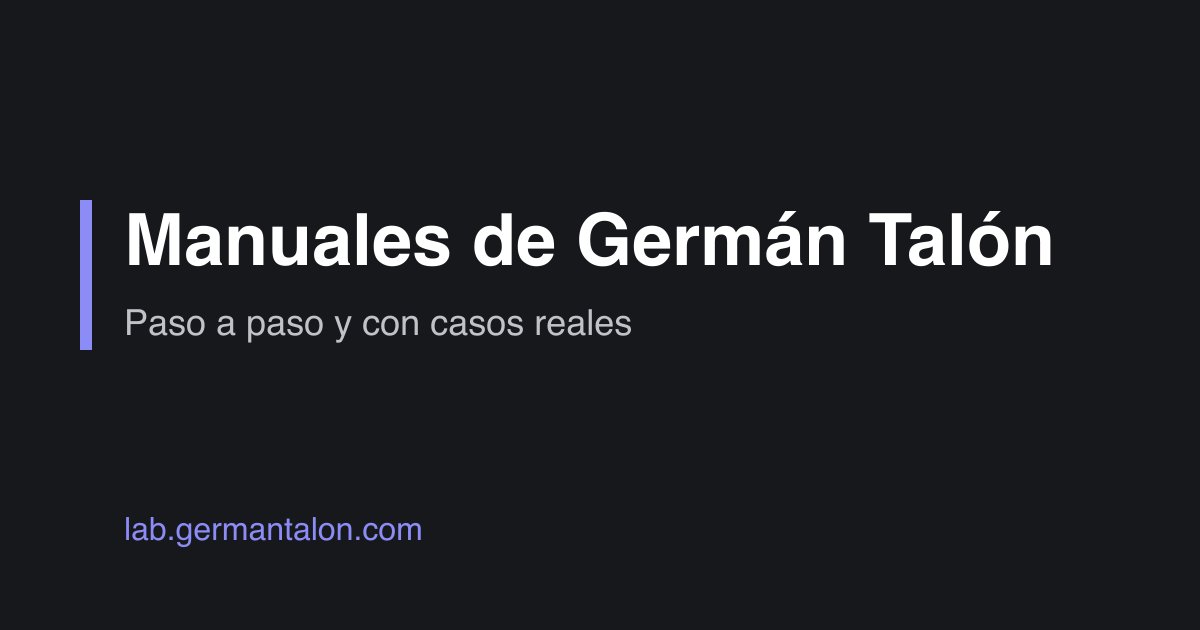
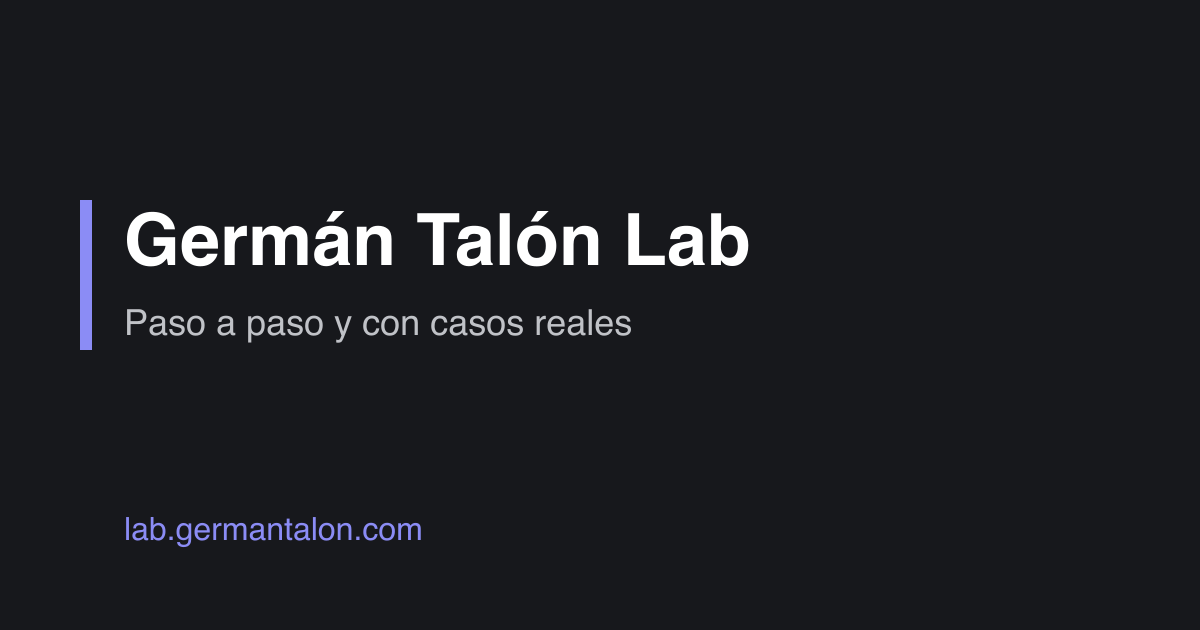
Nuevos capítulos, título "Germán Talón Lab" e "Inicio" en el índice (#2)
* Nuevos capítulos, título "Germán Talón Lab" e "Inicio" en el índice

- Sustituye los ocho capítulos por la lista definitiva, todos en borrador.
- La introducción aparece como "Introducción" en la barra lateral.
- Traduce tableOfContents.overview a "Inicio" con la colección i18n.
- Renombra el sitio a "Germán Talón Lab" y regenera la imagen OG.
- Añade la lista de capítulos a spec.md.

* Quitar el título duplicado de la portada

---------

diff --git a/src/content.config.ts b/src/content.config.ts
@@ -1,7 +1,8 @@
 import { defineCollection } from 'astro:content';
-import { docsLoader } from '@astrojs/starlight/loaders';
-import { docsSchema } from '@astrojs/starlight/schema';
+import { docsLoader, i18nLoader } from '@astrojs/starlight/loaders';
+import { docsSchema, i18nSchema } from '@astrojs/starlight/schema';
 
 export const collections = {
 	docs: defineCollection({ loader: docsLoader(), schema: docsSchema() }),
+	i18n: defineCollection({ loader: i18nLoader(), schema: i18nSchema() }),
 };

diff --git a/spec.md b/spec.md
@@ -31,6 +31,19 @@ src/content/docs/
 
 La barra lateral tiene un grupo por manual, generado desde su carpeta.
 
+Capítulos del primer manual, en este orden:
+
+| Fichero | Título |
+|---|---|
+| `01-entorno.md` | El entorno de trabajo |
+| `02-git-github.md` | Git y GitHub |
+| `03-claude-code.md` | Claude y Claude Code |
+| `04-sdd.md` | SDD, especificar antes de programar |
+| `05-web-estatica.md` | Tu web, un index.html estático |
+| `06-despliegue.md` | Desplegar en Cloudflare Pages |
+| `07-ci-cd.md` | CI/CD con GitHub Actions |
+| `08-docker.md` | Docker (de aprendizaje: en este proyecto no hace falta) |
+
 ## Lectura
 
 - Idioma del sitio: español (`lang="es"`).

diff --git a/src/content/docs/desarrollo-con-ia/index.md b/src/content/docs/desarrollo-con-ia/index.md
@@ -2,6 +2,7 @@
 title: Manual de desarrollo moderno con IA
 description: Cómo se desarrolla software hoy con git, GitHub, Docker, SDD, CI/CD y Claude, para quien programó hace años.
 sidebar:
+  label: Introducción
   order: 0
 ---
 

diff --git a/src/content/docs/desarrollo-con-ia/04-sdd.md b/src/content/docs/desarrollo-con-ia/04-sdd.md
@@ -1,7 +1,7 @@
 ---
-title: Desarrollo guiado por especificación (SDD)
+title: "SDD, especificar antes de programar"
 description: Capítulo en preparación.
 draft: true
 sidebar:
-  order: 5
+  order: 4
 ---

diff --git a/src/content/docs/desarrollo-con-ia/08-docker.md b/src/content/docs/desarrollo-con-ia/08-docker.md
@@ -1,6 +1,6 @@
 ---
-title: Docker
-description: Capítulo en preparación.
+title: "Docker"
+description: Capítulo de aprendizaje. En este proyecto no hace falta Docker.
 draft: true
 sidebar:
   order: 8

diff --git a/README.md b/README.md
@@ -1,4 +1,4 @@
-# lab.germantalon.com
+# Germán Talón Lab
 
 Manuales gratuitos de Germán Talón. Sitio estático hecho con [Astro](https://astro.build) y [Starlight](https://starlight.astro.build).
 

diff --git a/src/content/docs/desarrollo-con-ia/06-despliegue.md b/src/content/docs/desarrollo-con-ia/06-despliegue.md
@@ -1,7 +1,7 @@
 ---
-title: Claude Code
+title: "Desplegar en Cloudflare Pages"
 description: Capítulo en preparación.
 draft: true
 sidebar:
-  order: 4
+  order: 6
 ---

diff --git a/src/content/docs/desarrollo-con-ia/05-web-estatica.md b/src/content/docs/desarrollo-con-ia/05-web-estatica.md
@@ -1,7 +1,7 @@
 ---
-title: GitHub
+title: "Tu web, un index.html estático"
 description: Capítulo en preparación.
 draft: true
 sidebar:
-  order: 3
+  order: 5
 ---

diff --git a/src/content/docs/desarrollo-con-ia/03-claude-code.md b/src/content/docs/desarrollo-con-ia/03-claude-code.md
@@ -1,7 +1,7 @@
 ---
-title: Git
+title: "Claude y Claude Code"
 description: Capítulo en preparación.
 draft: true
 sidebar:
-  order: 2
+  order: 3
 ---

diff --git a/src/content/docs/desarrollo-con-ia/02-git-github.md b/src/content/docs/desarrollo-con-ia/02-git-github.md
@@ -1,7 +1,7 @@
 ---
-title: Pruebas
+title: "Git y GitHub"
 description: Capítulo en preparación.
 draft: true
 sidebar:
-  order: 6
+  order: 2
 ---

diff --git a/src/content/docs/desarrollo-con-ia/01-entorno.md b/src/content/docs/desarrollo-con-ia/01-entorno.md
@@ -1,5 +1,5 @@
 ---
-title: Entorno de trabajo
+title: "El entorno de trabajo"
 description: Capítulo en preparación.
 draft: true
 sidebar:

diff --git a/src/content/docs/desarrollo-con-ia/07-ci-cd.md b/src/content/docs/desarrollo-con-ia/07-ci-cd.md
@@ -1,5 +1,5 @@
 ---
-title: CI/CD
+title: "CI/CD con GitHub Actions"
 description: Capítulo en preparación.
 draft: true
 sidebar:
